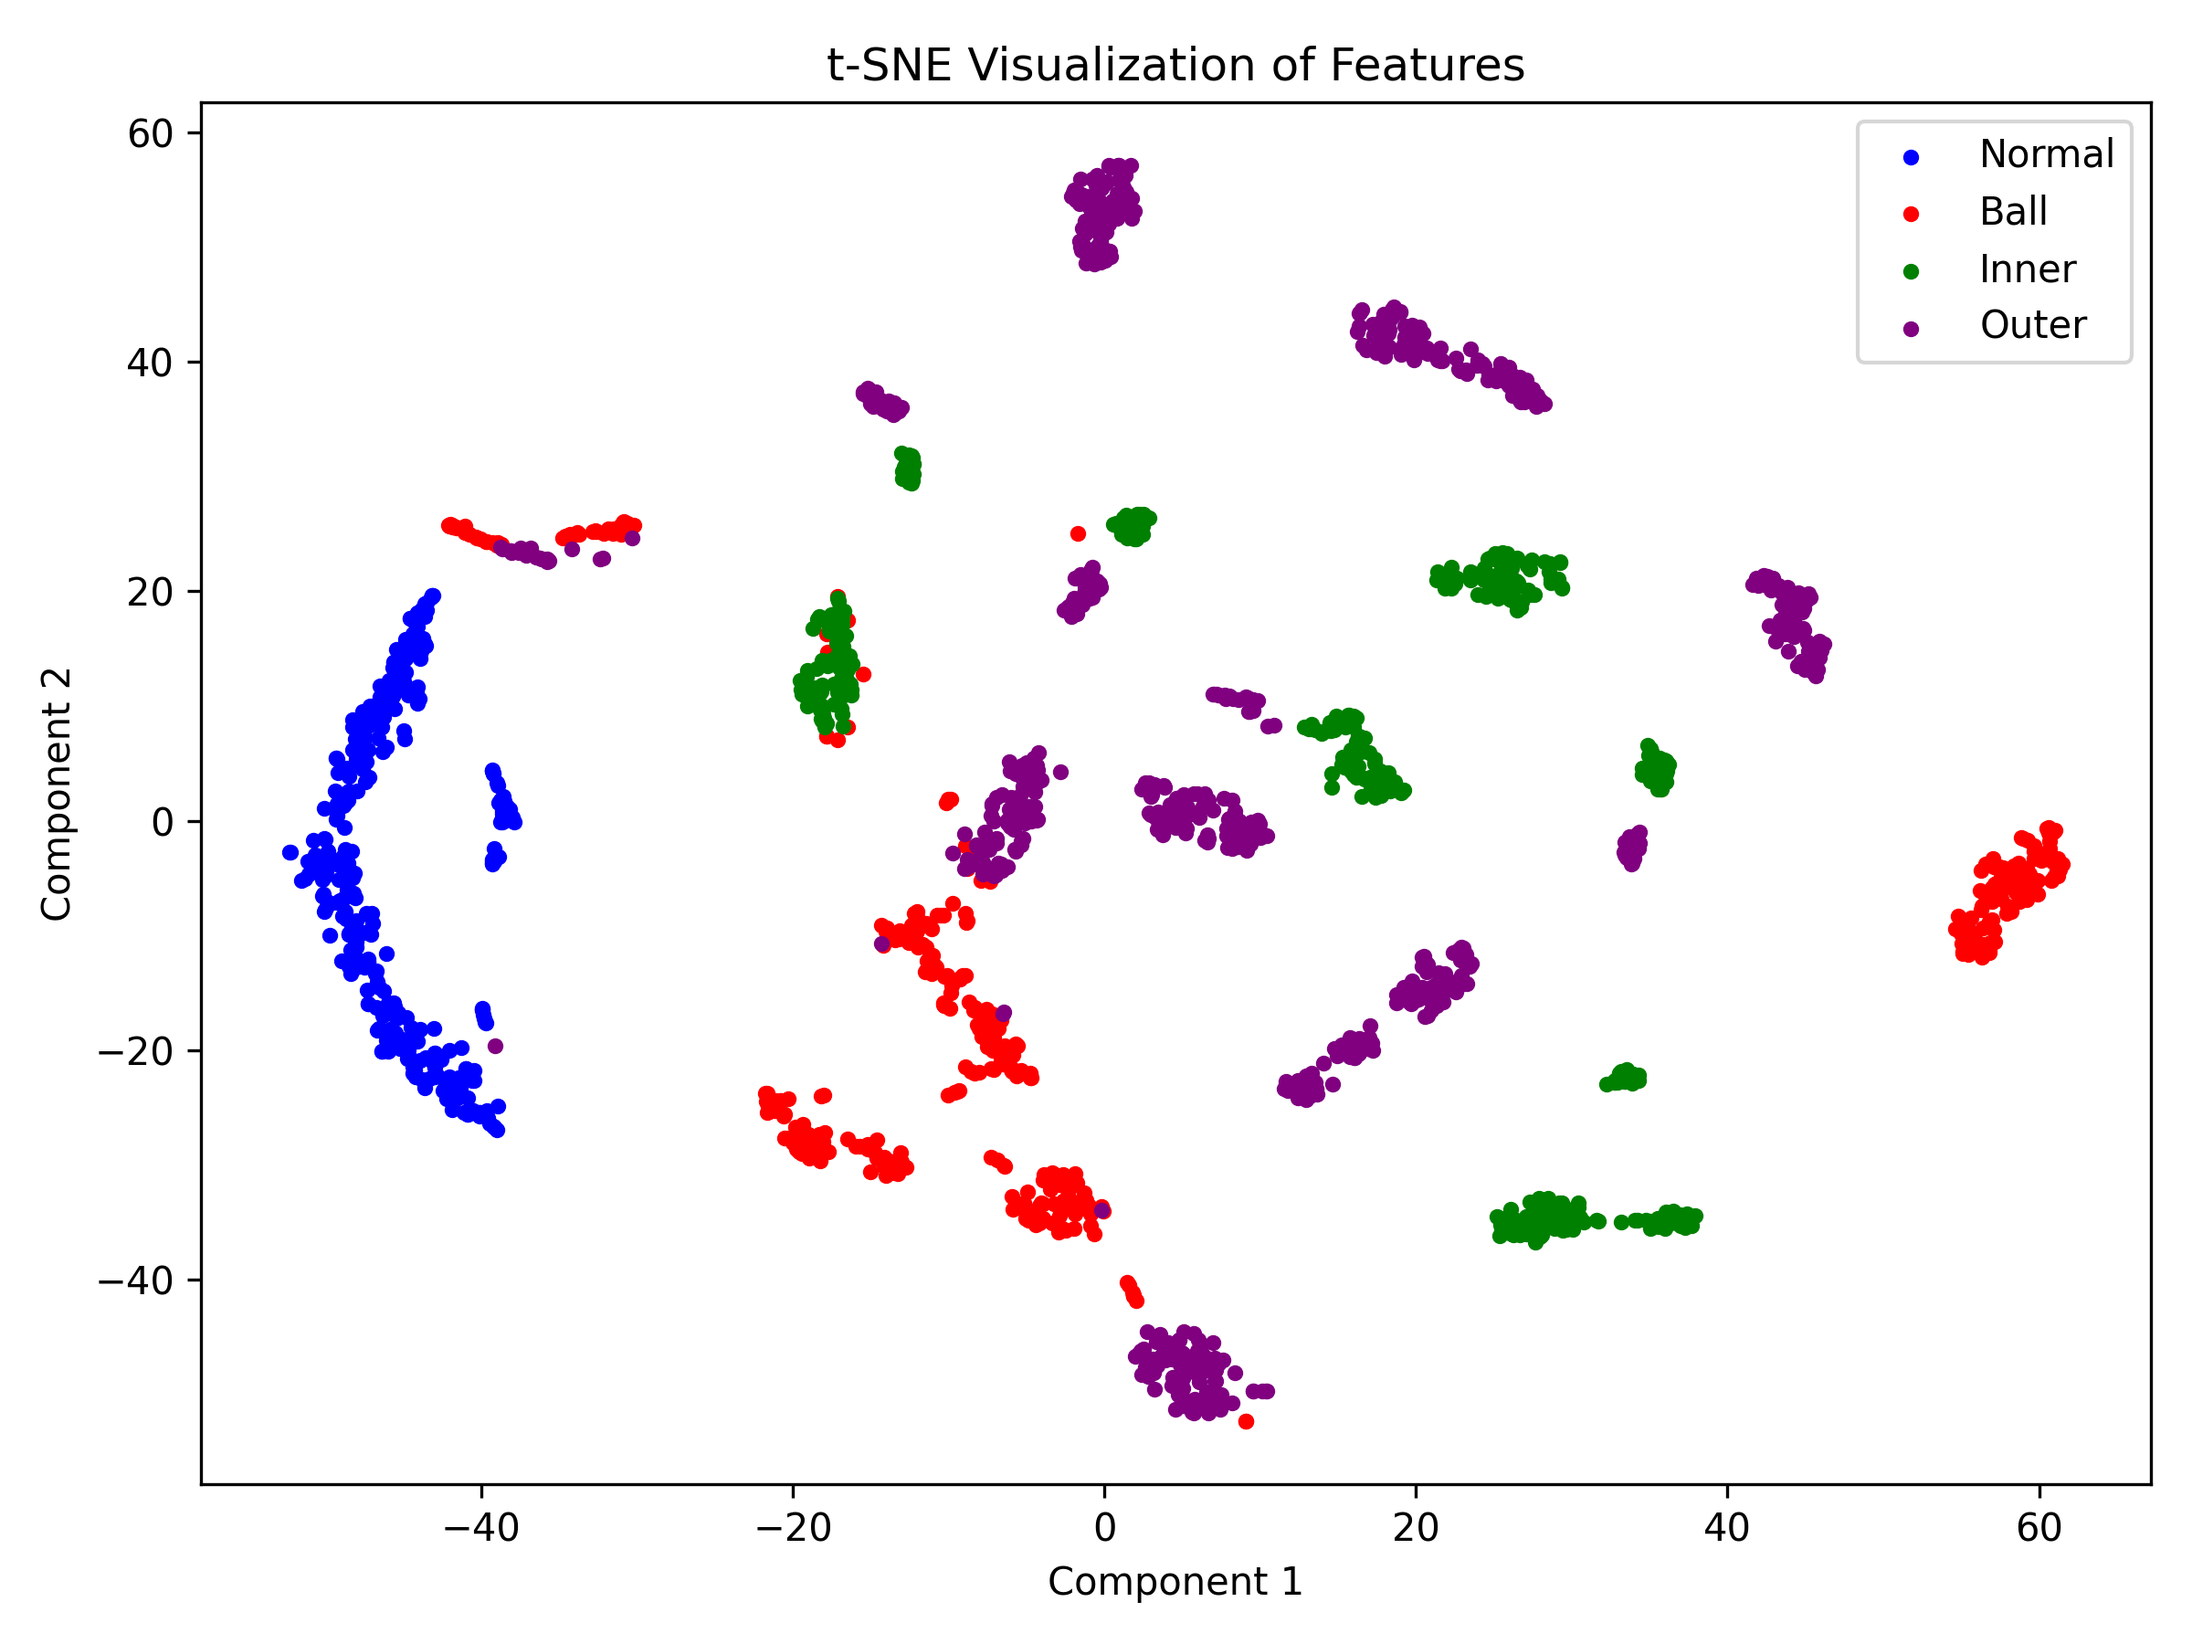
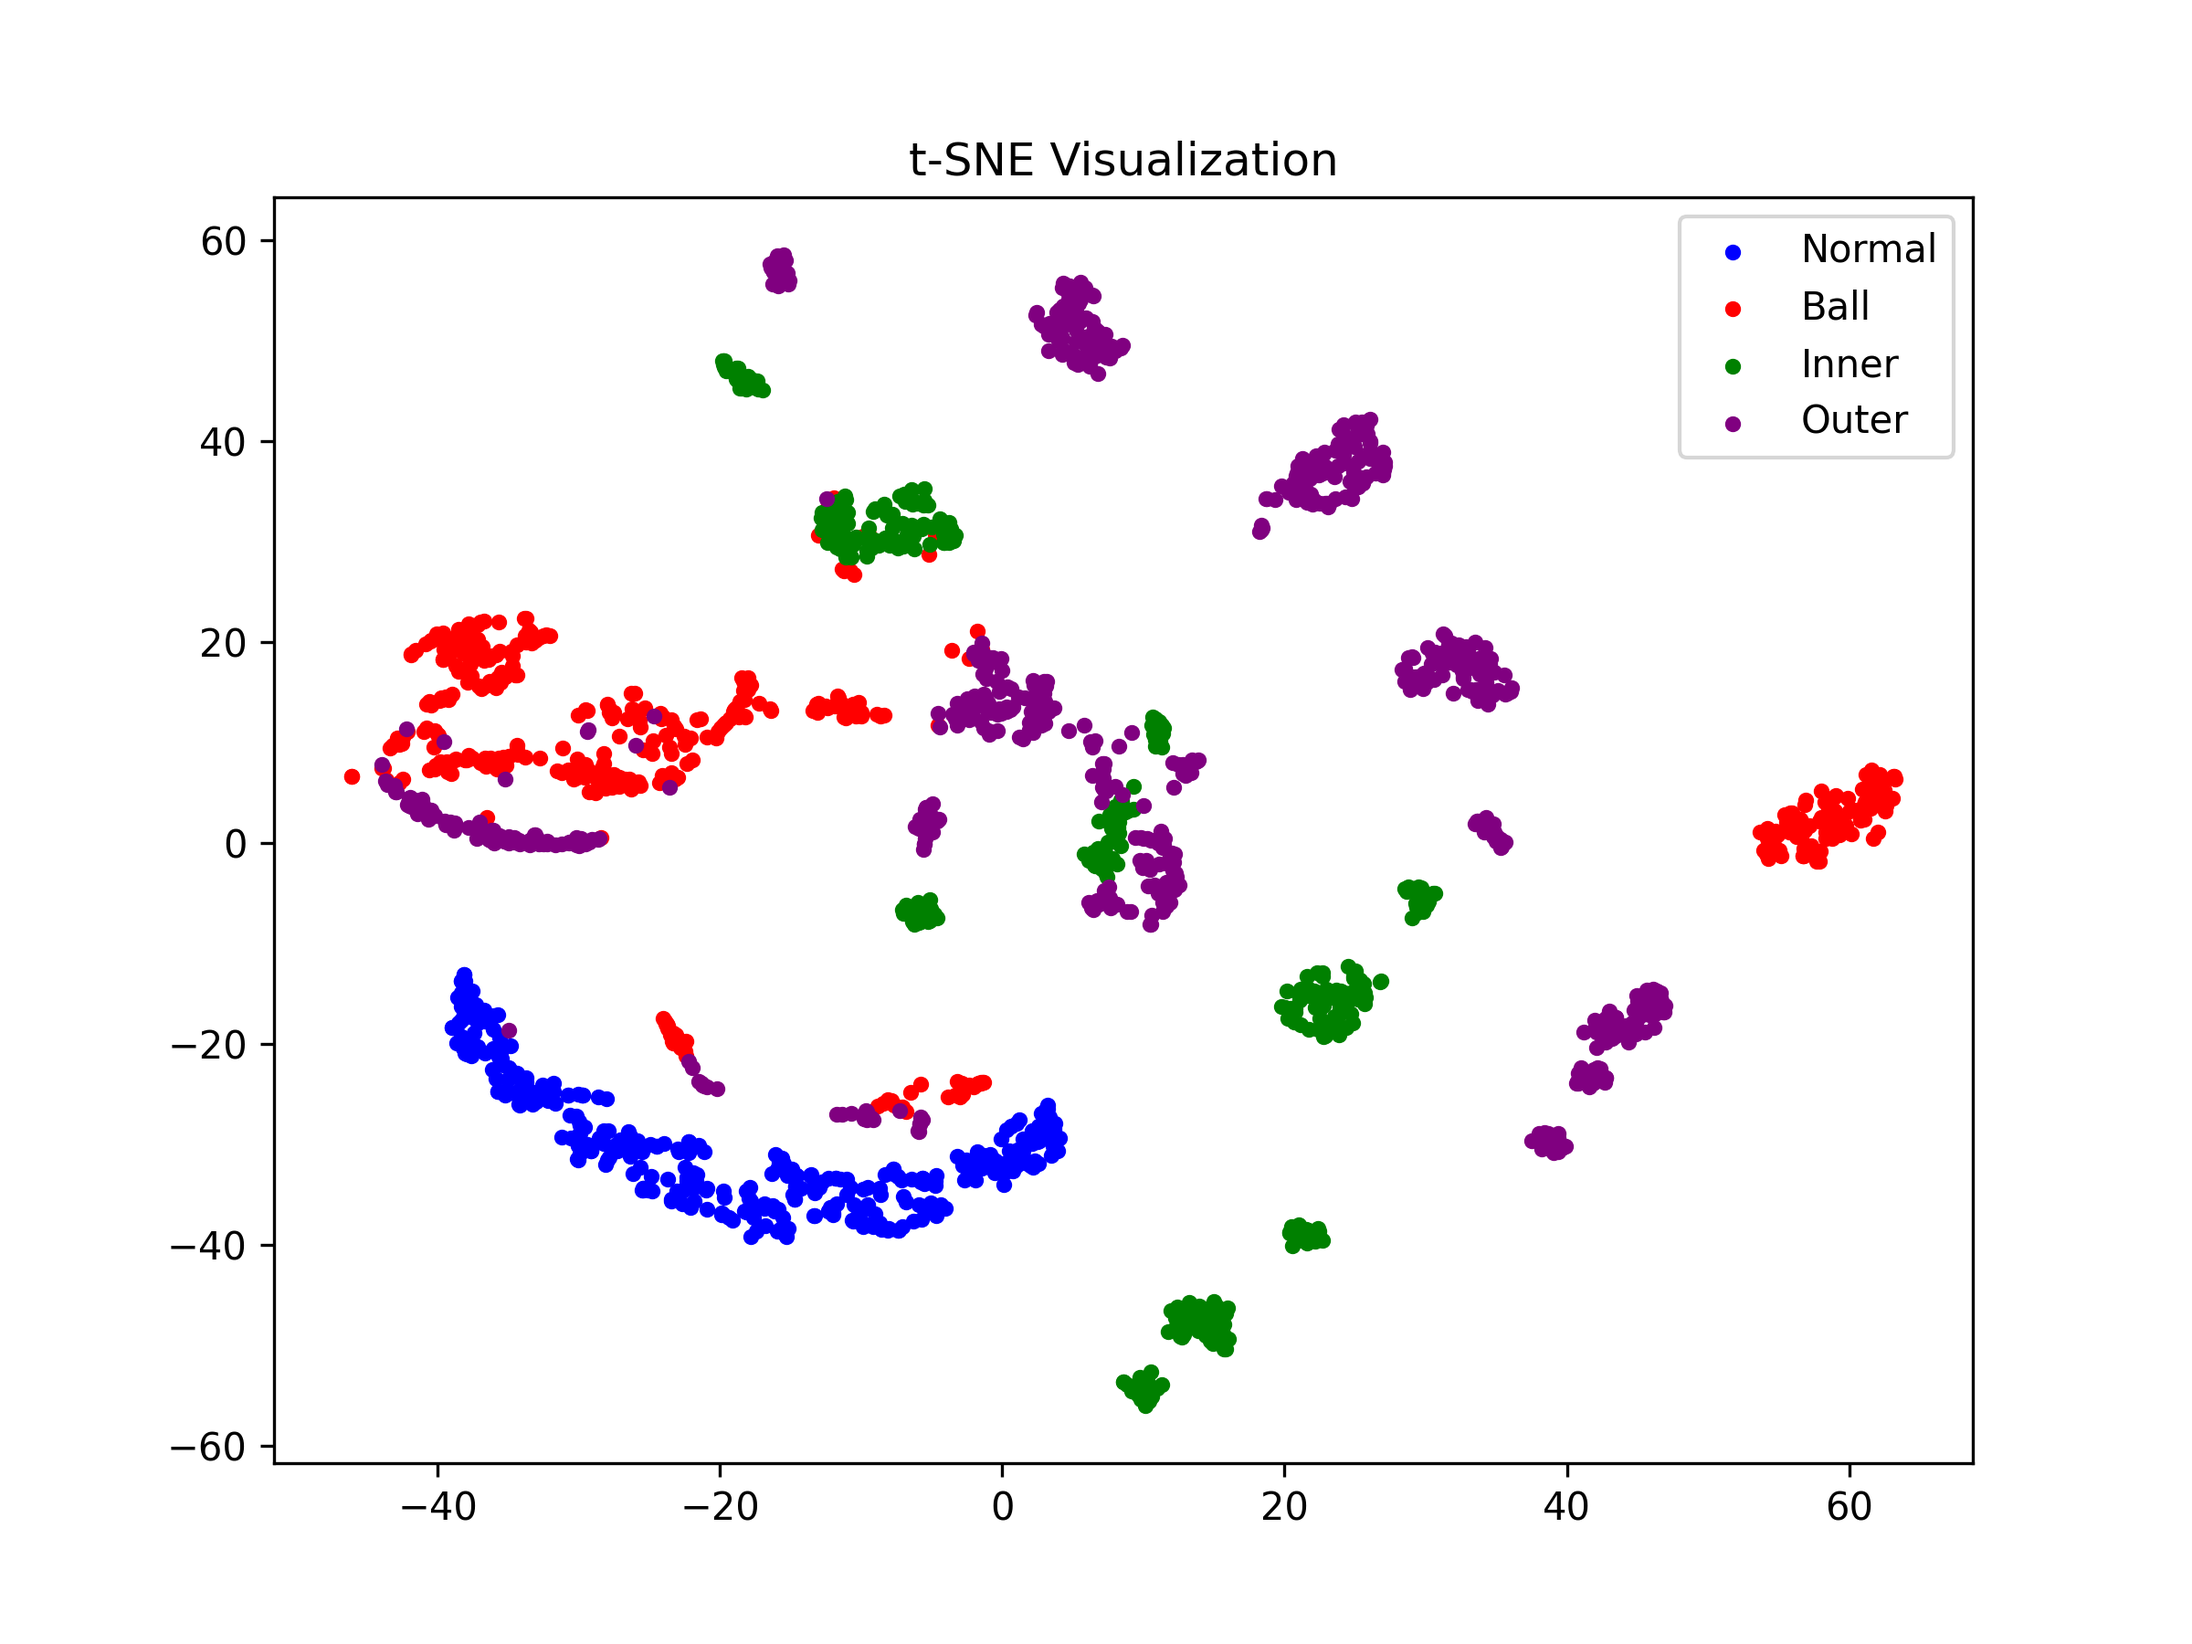
每个文件添加注释头

diff --git a/tsne_visualization.py b/tsne_visualization.py
@@ -51,6 +51,6 @@ for i in range(4):
 plt.legend()
 plt.title('t-SNE Visualization')
 
-plt.savefig('../figures/tsne.png', dpi=300)
+plt.savefig('./tsne.png', dpi=300)
 
 plt.show()

diff --git a/compare_models.py b/compare_models.py
@@ -1,4 +1,4 @@
-# compare_models.py(模型对比)
+# compare_models.py
 import time
 
 from sklearn.model_selection import train_test_split

diff --git a/data_loader.py b/data_loader.py
@@ -1,4 +1,4 @@
-# data_loader.py(数据加载)
+# data_loader.py
 import numpy as np
 import scipy.io as sio
 import os

diff --git a/cloud/trainer.py b/cloud/trainer.py
@@ -1,3 +1,4 @@
+# trainer.py
 import os
 import numpy as np
 from sklearn.model_selection import train_test_split

diff --git a/cloud/updater.py b/cloud/updater.py
@@ -1,4 +1,4 @@
-# updater.py（云端模型更新）
+# updater.py
 
 import os
 import time

diff --git a/feature.py b/feature.py
@@ -1,4 +1,4 @@
-# feature.py(特征提取)
+# feature.py
 import numpy as np
 
 

diff --git a/model.py b/model.py
@@ -1,4 +1,4 @@
-# models.py(ELM模型)
+# models.py
 import numpy as np
 
 

diff --git a/run.py b/run.py
@@ -1,3 +1,4 @@
+# run.py
 import threading
 import time
 import os
